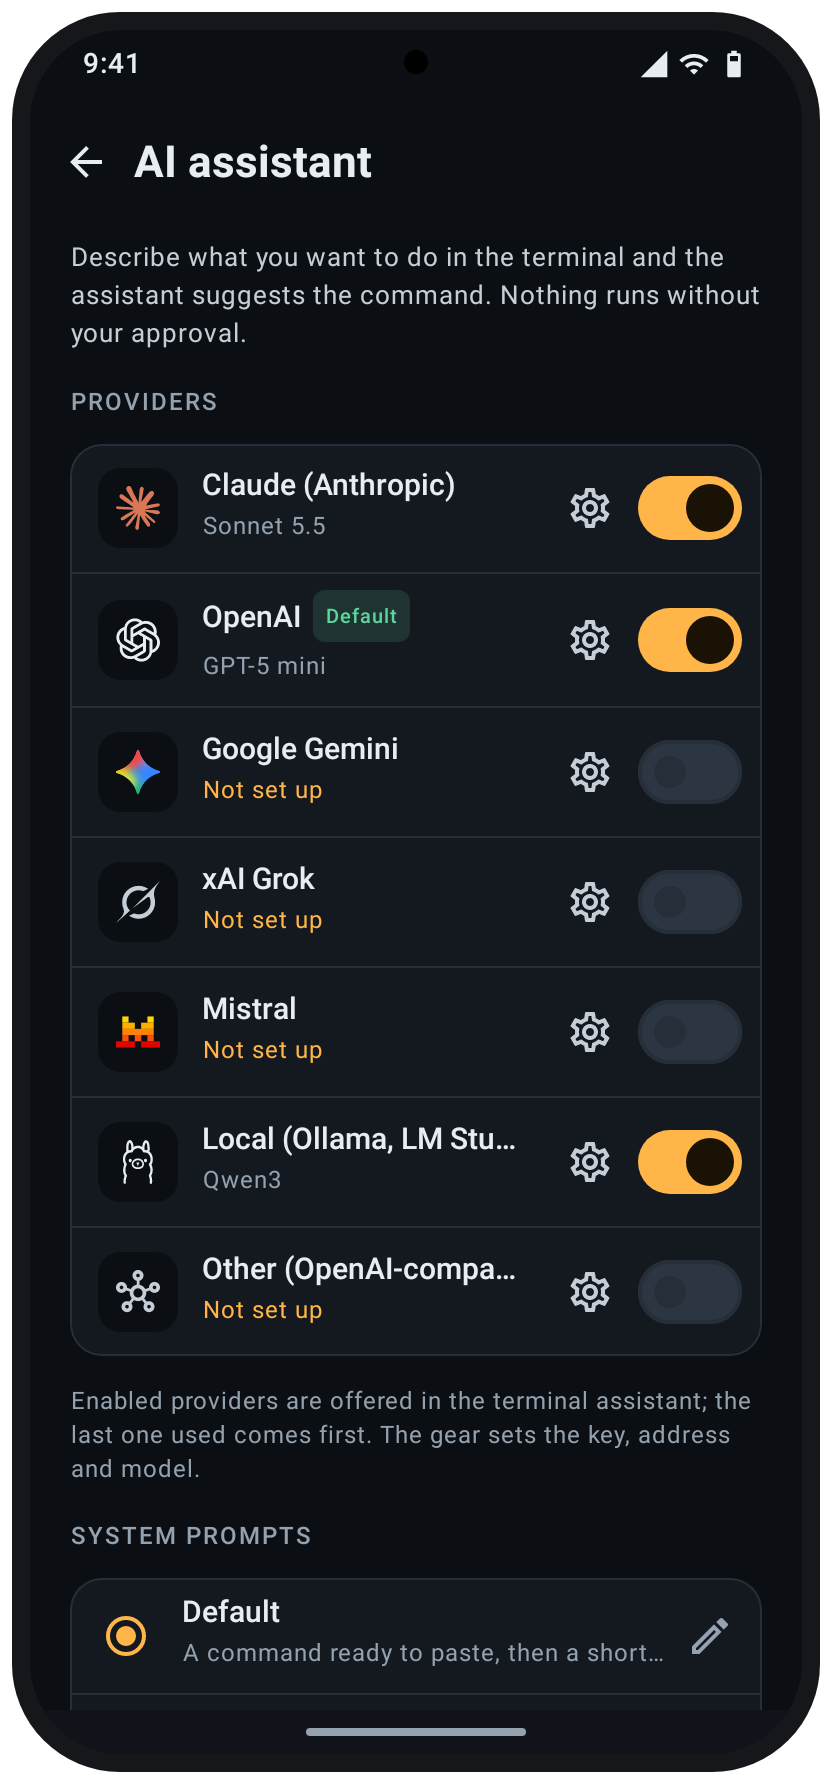
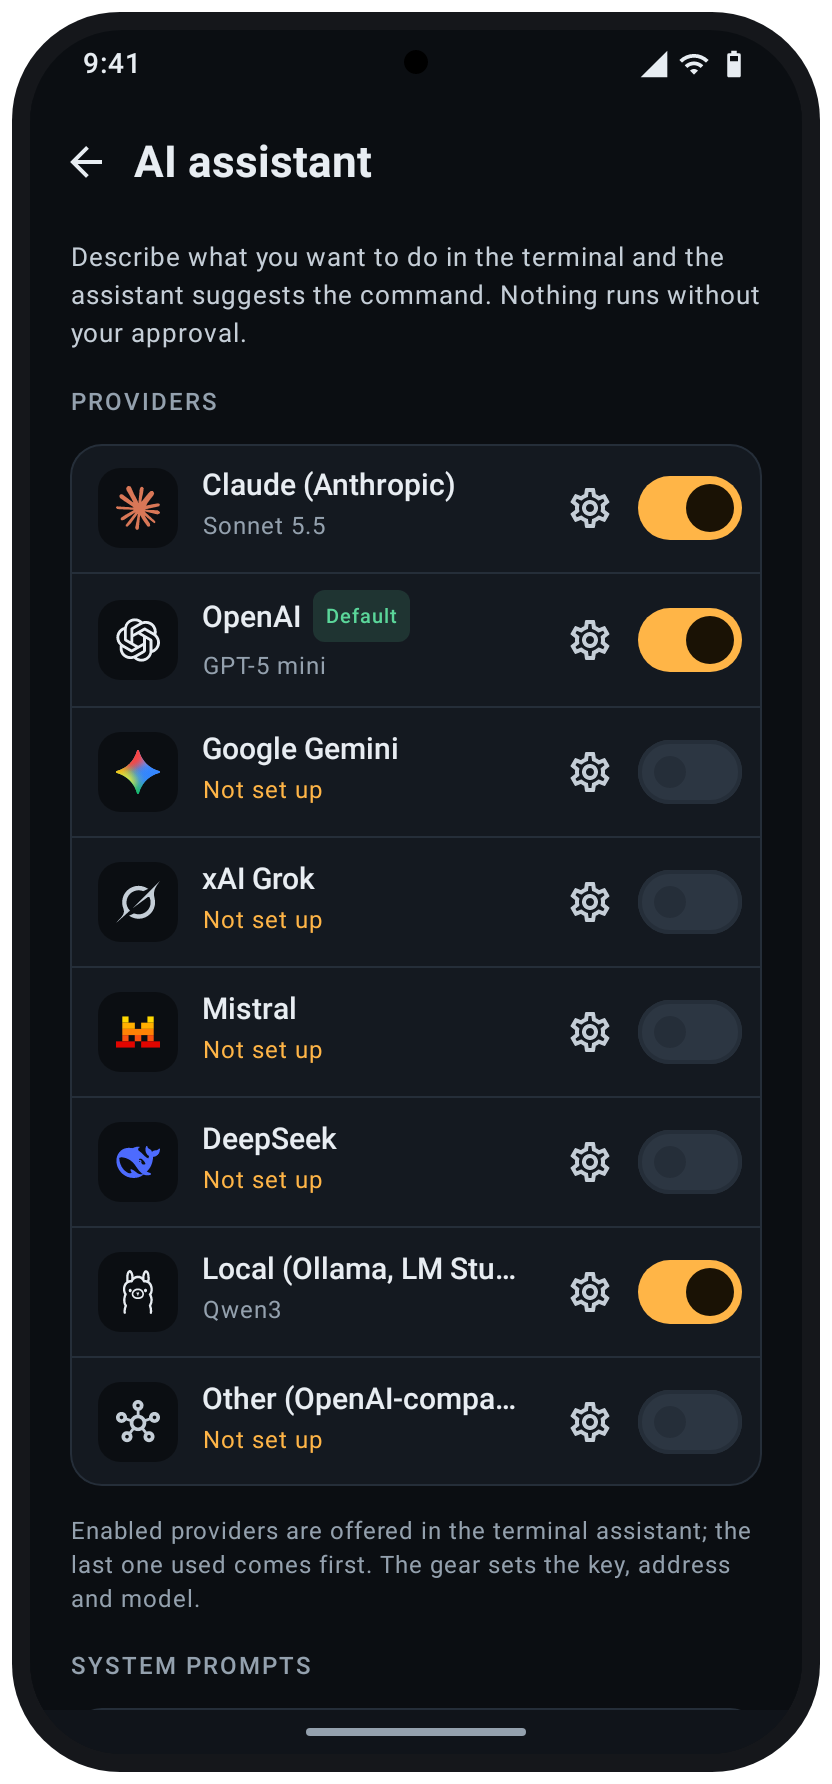
Add DeepSeek as an AI provider
OpenAI-compatible API at api.deepseek.com, official logo, readable model
names (deepseek-chat -> DeepSeek Chat).

diff --git a/app/src/main/java/com/nautile/app/ui/common/ProviderLogo.kt b/app/src/main/java/com/nautile/app/ui/common/ProviderLogo.kt
@@ -21,7 +21,7 @@ import com.nautile.app.ui.theme.Nt
 
 /**
  * Logos of the AI providers, with the path data of the official SVG files (as published on Wikimedia
- * Commons: OpenAI 2025 symbol, Claude symbol, Gemini 2025 icon, Mistral AI 2025, Grok, Ollama). The
+ * Commons: OpenAI 2025 symbol, Claude symbol, Gemini 2025 icon, Mistral AI 2025, DeepSeek, Grok, Ollama). The
  * marks belong to their owners and only name the service. Monochrome ones take the text color.
  * Gemini's soft colors are Gaussian blurs in the original; Android vectors have no blur, so each one
  * is drawn as a radial gradient with the same center, size, color and spread.
@@ -47,6 +47,14 @@ object ProviderLogos {
         ImageVector.Builder("grok", 24.dp, 24.dp, 375.812f, 375.812f)
             .addGroup(translationX = -68.094f, translationY = -66.914f)
             .addPath(addPathNodes("M213.235 306.019L392.211 126.017L392.211 126.186L443.906 74.423C442.982 75.743 442.046 77.028 441.121 78.313C401.84 132.477 382.661 158.962 398.051 225.235L397.961 225.134C408.571 270.244 397.217 320.271 360.563 356.97C314.347 403.276 240.396 413.581 179.5 371.898L221.962 352.223C260.825 367.501 303.354 360.793 333.909 330.193C364.475 299.593 371.341 255.034 355.974 217.941C353.054 210.916 344.304 209.146 338.182 213.678L213.235 306.019ZM187.449 328.456L187.416 328.49L68.094 435.217C75.659 424.788 85.051 414.923 94.421 405.068C120.849 377.265 147.074 349.709 131.075 310.766C109.653 258.654 122.123 197.589 161.799 157.868C203.042 116.614 263.779 106.207 314.505 127.11C325.735 131.282 335.521 137.224 343.143 142.749L300.784 162.333C261.344 145.77 216.155 157.034 188.577 184.646C151.279 221.954 143.737 286.649 187.449 328.456Z"), fill = SolidColor(Color.Black), pathFillType = PathFillType.EvenOdd)
+            .clearGroup()
+            .build()
+    }
+
+    private val DEEPSEEK by lazy {
+        ImageVector.Builder("deepseek", 24.dp, 24.dp, 23.992f, 23.992f)
+            .addGroup(translationX = -3.772f, translationY = -3.803f)
+            .addPath(addPathNodes("M27.501 8.4688C27.249 8.3457 27.1406 8.5801 26.9932 8.6992C26.9434 8.7383 26.9004 8.7891 26.8584 8.834C26.4902 9.2285 26.0605 9.4863 25.5 9.4551C24.6787 9.4102 23.9785 9.668 23.3594 10.2969C23.2275 9.5215 22.79 9.0586 22.125 8.7617C21.7764 8.6074 21.4238 8.4531 21.1807 8.1172C21.0098 7.8789 20.9639 7.6133 20.8779 7.3516C20.8242 7.1934 20.7695 7.0312 20.5879 7.0039C20.3906 6.9727 20.3135 7.1387 20.2363 7.2773C19.9258 7.8438 19.8066 8.4688 19.8174 9.1016C19.8447 10.5234 20.4453 11.6562 21.6367 12.4629C21.7725 12.5547 21.8076 12.6484 21.7646 12.7832C21.6836 13.0605 21.5869 13.3301 21.501 13.6074C21.4473 13.7852 21.3662 13.8242 21.1768 13.7461C20.5225 13.4727 19.957 13.0684 19.458 12.5781C18.6104 11.7578 17.8438 10.8516 16.8877 10.1426C16.6631 9.9766 16.4395 9.8223 16.207 9.6758C15.2314 8.7266 16.335 7.9473 16.5898 7.8555C16.8574 7.7598 16.6826 7.4277 15.8193 7.4316C14.957 7.4356 14.167 7.7246 13.1611 8.1094C13.0137 8.168 12.8594 8.2109 12.7002 8.2441C11.7871 8.0723 10.8389 8.0332 9.8477 8.1445C7.9824 8.3535 6.4922 9.2363 5.3965 10.7441C4.0811 12.5547 3.7715 14.6133 4.1504 16.7617C4.5488 19.0234 5.7021 20.8984 7.4756 22.3633C9.3135 23.8809 11.4307 24.625 13.8457 24.4824C15.3125 24.3984 16.9463 24.2012 18.7881 22.6406C19.2529 22.8711 19.7402 22.9629 20.5498 23.0332C21.1729 23.0918 21.7725 23.002 22.2373 22.9062C22.9648 22.752 22.9141 22.0781 22.6514 21.9531C20.5186 20.959 20.9863 21.3633 20.5605 21.0371C21.6445 19.752 23.2783 18.418 23.917 14.0977C23.9668 13.7539 23.9238 13.5391 23.917 13.2598C23.9131 13.0918 23.9512 13.0254 24.1445 13.0059C24.6787 12.9453 25.1973 12.7988 25.6738 12.5352C27.0557 11.7793 27.6123 10.5391 27.7441 9.0508C27.7637 8.8242 27.7402 8.5879 27.501 8.4688ZM15.46 21.8613C13.3926 20.2344 12.3906 19.6992 11.9766 19.7227C11.5898 19.7441 11.6592 20.1875 11.7441 20.4766C11.833 20.7617 11.9492 20.959 12.1123 21.209C12.2246 21.375 12.3018 21.623 12 21.8066C11.334 22.2207 10.1768 21.668 10.1221 21.6406C8.7754 20.8477 7.6494 19.7988 6.8555 18.3652C6.0898 16.9844 5.6445 15.5039 5.5713 13.9238C5.5518 13.541 5.6641 13.4062 6.043 13.3379C6.542 13.2461 7.0576 13.2266 7.5566 13.2988C9.666 13.6074 11.4619 14.5527 12.9668 16.0469C13.8262 16.9004 14.4766 17.918 15.1465 18.9121C15.8584 19.9688 16.625 20.9746 17.6006 21.7988C17.9443 22.0879 18.2197 22.3086 18.4824 22.4707C17.6895 22.5586 16.3652 22.5781 15.46 21.8613ZM16.4502 15.4805C16.4502 15.3105 16.5859 15.1758 16.7568 15.1758C16.7949 15.1758 16.8301 15.1836 16.8613 15.1953C16.9033 15.2109 16.9424 15.2344 16.9727 15.2695C17.0273 15.3223 17.0586 15.4004 17.0586 15.4805C17.0586 15.6504 16.9229 15.7852 16.7529 15.7852C16.582 15.7852 16.4502 15.6504 16.4502 15.4805ZM19.5273 17.0625C19.3301 17.1426 19.1328 17.2129 18.9434 17.2207C18.6494 17.2344 18.3281 17.1152 18.1533 16.9688C17.8828 16.7422 17.6895 16.6152 17.6074 16.2168C17.5732 16.0469 17.5928 15.7852 17.623 15.6348C17.6934 15.3105 17.6152 15.1035 17.3877 14.9141C17.2012 14.7598 16.9658 14.7188 16.7061 14.7188C16.6094 14.7188 16.5205 14.6758 16.4541 14.6406C16.3457 14.5859 16.2568 14.4512 16.3418 14.2852C16.3691 14.2324 16.501 14.1016 16.5322 14.0781C16.8838 13.877 17.29 13.9434 17.666 14.0938C18.0146 14.2363 18.2773 14.498 18.6562 14.8672C19.0439 15.3145 19.1133 15.4395 19.334 15.7734C19.5078 16.0371 19.667 16.3066 19.7754 16.6152C19.8408 16.8066 19.7559 16.9648 19.5273 17.0625Z"), fill = SolidColor(Color(0xFF4D6BFE)))
             .clearGroup()
             .build()
     }
@@ -113,6 +121,7 @@ object ProviderLogos {
         AiProviderKind.GEMINI -> GEMINI to true
         AiProviderKind.GROK -> GROK to false
         AiProviderKind.MISTRAL -> MISTRAL to true
+        AiProviderKind.DEEPSEEK -> DEEPSEEK to true
         AiProviderKind.LOCAL -> OLLAMA to false
         AiProviderKind.CUSTOM -> null
     }

diff --git a/app/src/main/java/com/nautile/app/ai/AiProviders.kt b/app/src/main/java/com/nautile/app/ai/AiProviders.kt
@@ -39,6 +39,7 @@ enum class AiProviderKind(
     GEMINI("Google Gemini", "gemini-2.5-flash", "https://generativelanguage.googleapis.com/v1beta", keyHint = "AIza…"),
     GROK("xAI Grok", "grok-4", "https://api.x.ai/v1", keyHint = "xai-…"),
     MISTRAL("Mistral", "mistral-large-latest", "https://api.mistral.ai/v1"),
+    DEEPSEEK("DeepSeek", "deepseek-chat", "https://api.deepseek.com/v1", keyHint = "sk-…"),
     LOCAL(tr("Local (Ollama, LM Studio…)"), "llama3.1", "http://192.168.1.10:11434/v1", needsKey = false, editableUrl = true),
     CUSTOM(tr("Autre (compatible OpenAI)"), "", "https://openrouter.ai/api/v1", editableUrl = true),
     ;
@@ -69,6 +70,7 @@ fun prettyModel(id: String): String {
         val (major, minor, family) = r.destructured
         return cap(family) + " " + major + if (minor.isNotEmpty()) ".$minor" else ""
     }
+    if (m.startsWith("deepseek-")) return "DeepSeek " + m.removePrefix("deepseek-").split('-').joinToString(" ") { cap(it) }
     Regex("^gpt-([a-z0-9.]+)(?:-(.+))?$").find(m)?.let { r ->
         val (version, rest) = r.destructured
         return "GPT-$version" + if (rest.isNotEmpty()) " " + rest.replace('-', ' ') else ""

diff --git a/app/src/main/java/com/nautile/app/ui/settings/SettingsScreen.kt b/app/src/main/java/com/nautile/app/ui/settings/SettingsScreen.kt
@@ -128,7 +128,7 @@ fun SettingsScreen(onNavigate: (String) -> Unit) {
     val services = listOf(
         Entry(Icons.Outlined.AutoAwesome, lavender, tr("Assistant IA"),
             if (aiReady) "${aiFirst?.label} · ${com.nautile.app.ai.prettyModel(app.ai.config(aiFirst ?: app.ai.provider).model)}" else tr("À configurer"),
-            "ia ai intelligence claude anthropic openai gemini mistral ollama cle key api modele model", SettingsRoutes.AI,
+            "ia ai intelligence claude anthropic openai gemini mistral deepseek grok ollama cle key api modele model", SettingsRoutes.AI,
             dot = if (aiReady) Nt.Green else Nt.Accent),
         Entry(Icons.Outlined.Lock, Nt.Green, tr("Sécurité, sauvegarde et synchro"),
             (if (lockOn) tr("Verrouillage activé") else tr("Verrouillage désactivé")) + " · " +

diff --git a/app/src/test/java/com/nautile/app/ai/PrettyModelTest.kt b/app/src/test/java/com/nautile/app/ai/PrettyModelTest.kt
@@ -18,6 +18,8 @@ class PrettyModelTest {
             "grok-4" to "Grok 4",
             "mistral-large-latest" to "Mistral Large",
             "qwen3" to "Qwen3",
+            "deepseek-chat" to "DeepSeek Chat",
+            "deepseek-reasoner" to "DeepSeek Reasoner",
         ).forEach { (id, name) -> assertEquals(id, name, prettyModel(id)) }
     }
 }

diff --git a/third_party/NOTICE.md b/third_party/NOTICE.md
@@ -48,6 +48,6 @@ described in its header. The MPL 2.0 allows combining these files with this GPLv
 
 `app/src/main/java/com/nautile/app/ui/common/ProviderLogo.kt` holds the path data of the providers'
 official logo files as published on Wikimedia Commons ("OpenAI logo 2025 (symbol).svg",
-"Claude AI symbol.svg", "Google Gemini icon 2025.svg", "Mistral AI logo (2025–).svg", "Grok-icon.svg",
+"Claude AI symbol.svg", "Google Gemini icon 2025.svg", "Mistral AI logo (2025–).svg", "DeepSeek-icon.svg", "Grok-icon.svg",
 "Ollama-logo.svg"), converted to absolute coordinates. Gemini's blurs are drawn as radial gradients.
 The logos are trademarks of their owners and are only used to name the service the user configured.
